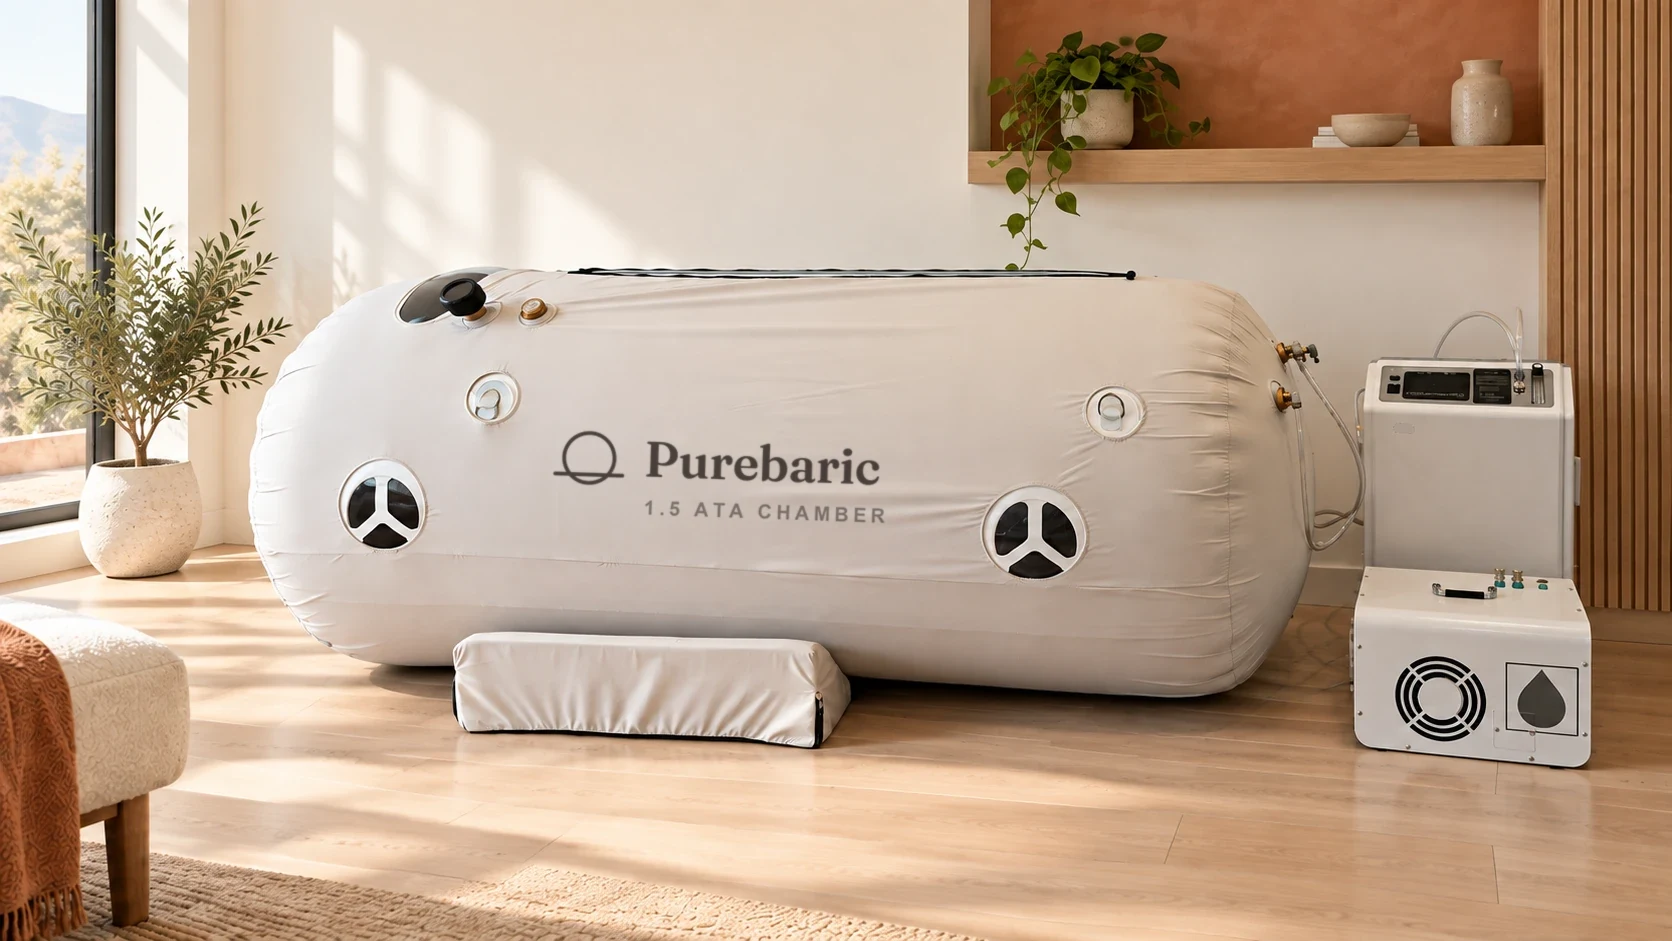
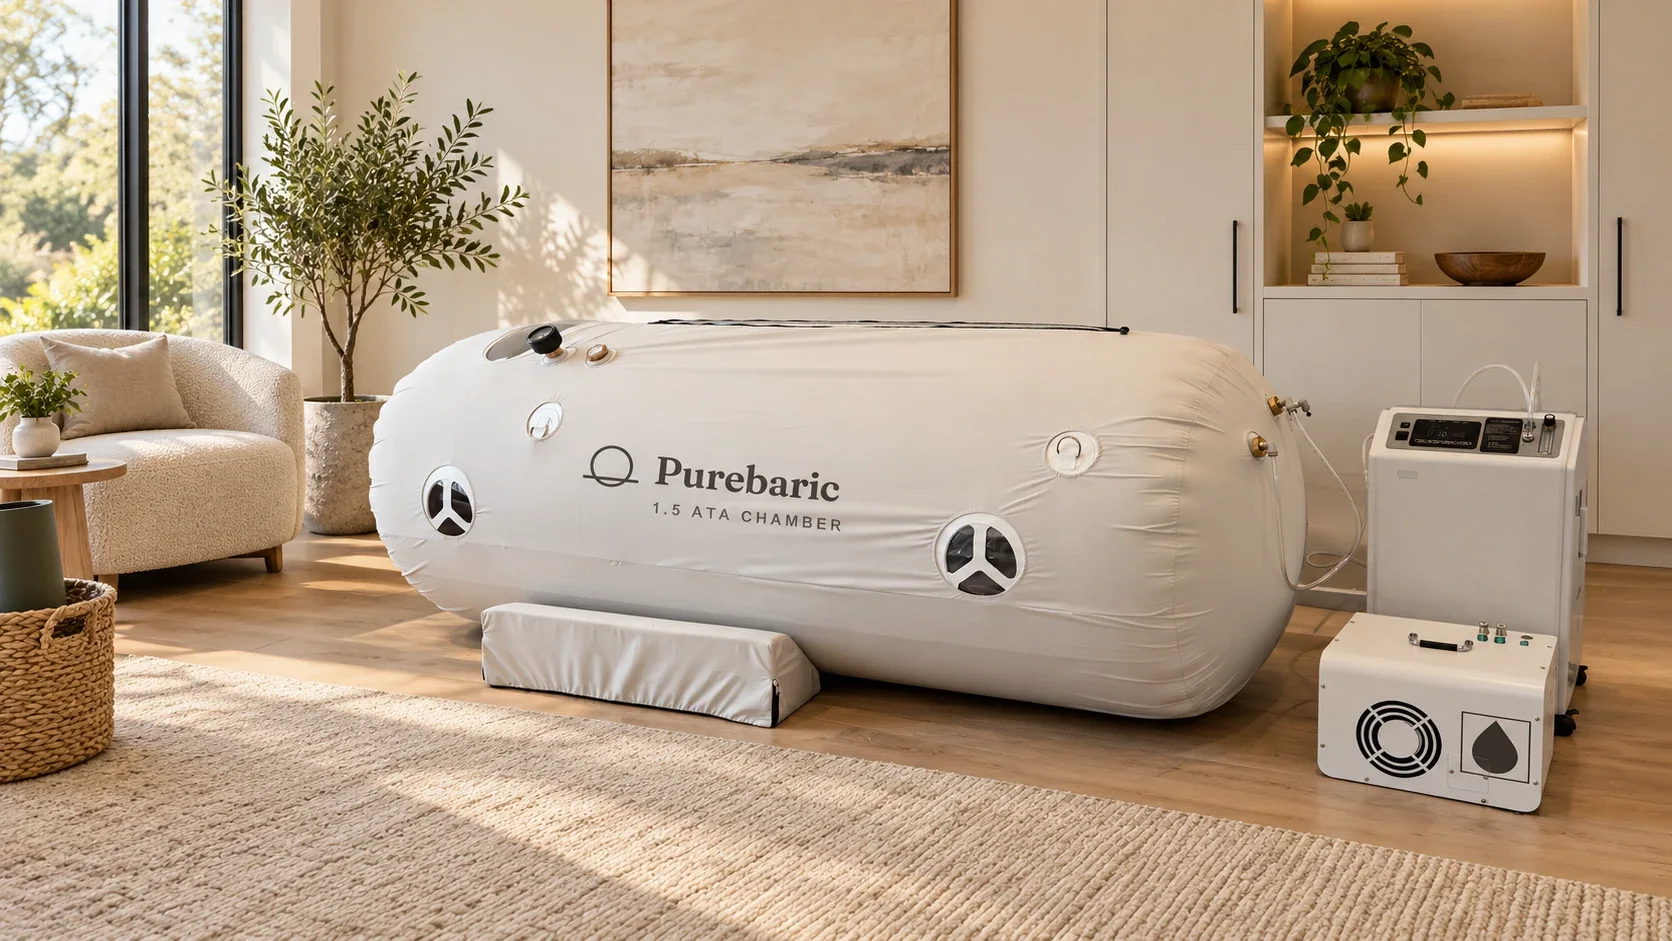
New home-setting chamber photo: homepage hero slide 1, customer emails, business page share image

diff --git a/index.html b/index.html
@@ -68,7 +68,7 @@
 }
 </script>
 
-<link rel="preload" as="image" href="/images/chamber-living.webp?v=2" fetchpriority="high">
+<link rel="preload" as="image" href="/images/chamber-living.webp?v=3" fetchpriority="high">
 <link rel="preconnect" href="https://fonts.googleapis.com">
 <link rel="preconnect" href="https://fonts.gstatic.com" crossorigin>
 <link href="https://fonts.googleapis.com/css2?family=Inter:wght@400;500;600;700;800&display=swap" rel="stylesheet">
@@ -267,7 +267,7 @@ input[type=range]::-moz-range-thumb{width:20px;height:20px;border-radius:50%;bac
 
 <div class="wrap">
   <div class="hero">
-    <img class="slide active" src="/images/chamber-living.webp?v=2" width="1672" height="941" fetchpriority="high" alt="Purebaric hyperbaric chamber set up in a Utah home">
+    <img class="slide active" src="/images/chamber-living.webp?v=3" width="1672" height="941" fetchpriority="high" alt="Purebaric hyperbaric chamber set up in a Utah home">
     <img class="slide" src="/images/chamber-hero.jpg?v=2" width="1800" height="1013" loading="lazy" alt="Purebaric hyperbaric chamber with oxygen concentrator">
     <img class="slide" src="/images/chamber-room.webp?v=2" width="1672" height="941" loading="lazy" alt="Purebaric hyperbaric chamber set up in a Utah bedroom">
     <img class="slide" src="/images/chamber-gym.webp" width="1672" height="941" loading="lazy" alt="Purebaric hyperbaric chamber set up in a modern gym">
@@ -540,7 +540,7 @@ function checkZip(s){s=s||'';var el=document.getElementById('zip'+s),n=document.
 
 
 /* photo lightbox */
-var LBI=['/images/chamber-living.webp?v=2','/images/chamber-hero.jpg?v=2','/images/chamber-room.webp?v=2','/images/chamber-side.jpg?v=2'];
+var LBI=['/images/chamber-living.webp?v=3','/images/chamber-hero.jpg?v=2','/images/chamber-room.webp?v=2','/images/chamber-side.jpg?v=2'];
 var lbi=0;
 function lbShow(){document.getElementById('lbImg').src=LBI[lbi];document.getElementById('lbCount').textContent=(lbi+1)+' / '+LBI.length;}
 function lbOpen(i){lbi=i||0;lbShow();document.getElementById('lb').hidden=false;}

diff --git a/business.html b/business.html
@@ -13,7 +13,7 @@
 <meta property="og:title" content="Hyperbaric Chamber Rentals for Businesses in Utah">
 <meta property="og:description" content="A new revenue-generating amenity for your business. We install, train, and service. You keep the session revenue.">
 <meta property="og:url" content="https://purebaric.com/business">
-<meta property="og:image" content="https://purebaric.com/images/chamber-living.jpg?v=2">
+<meta property="og:image" content="https://purebaric.com/images/chamber-living.jpg?v=3">
 <link rel="preconnect" href="https://fonts.googleapis.com">
 <link rel="preconnect" href="https://fonts.gstatic.com" crossorigin>
 <link href="https://fonts.googleapis.com/css2?family=Inter:wght@400;500;600;700;800&display=swap" rel="stylesheet">

diff --git a/netlify/functions/_lib/email.js b/netlify/functions/_lib/email.js
@@ -94,7 +94,7 @@ function wrap(bodyHtml) {
           <!-- Hero imagery -->
           <tr>
             <td style="padding:0; font-size:0; line-height:0;">
-              <img src="https://purebaric.com/images/chamber-side.jpg?v=2" alt="A Purebaric hyperbaric chamber set up at home" width="560" style="display:block; width:100%; max-width:560px; height:auto; border:0;" />
+              <img src="https://purebaric.com/images/chamber-living.jpg?v=3" alt="A Purebaric hyperbaric chamber set up at home" width="560" style="display:block; width:100%; max-width:560px; height:auto; border:0;" />
             </td>
           </tr>
           <!-- Body content -->
